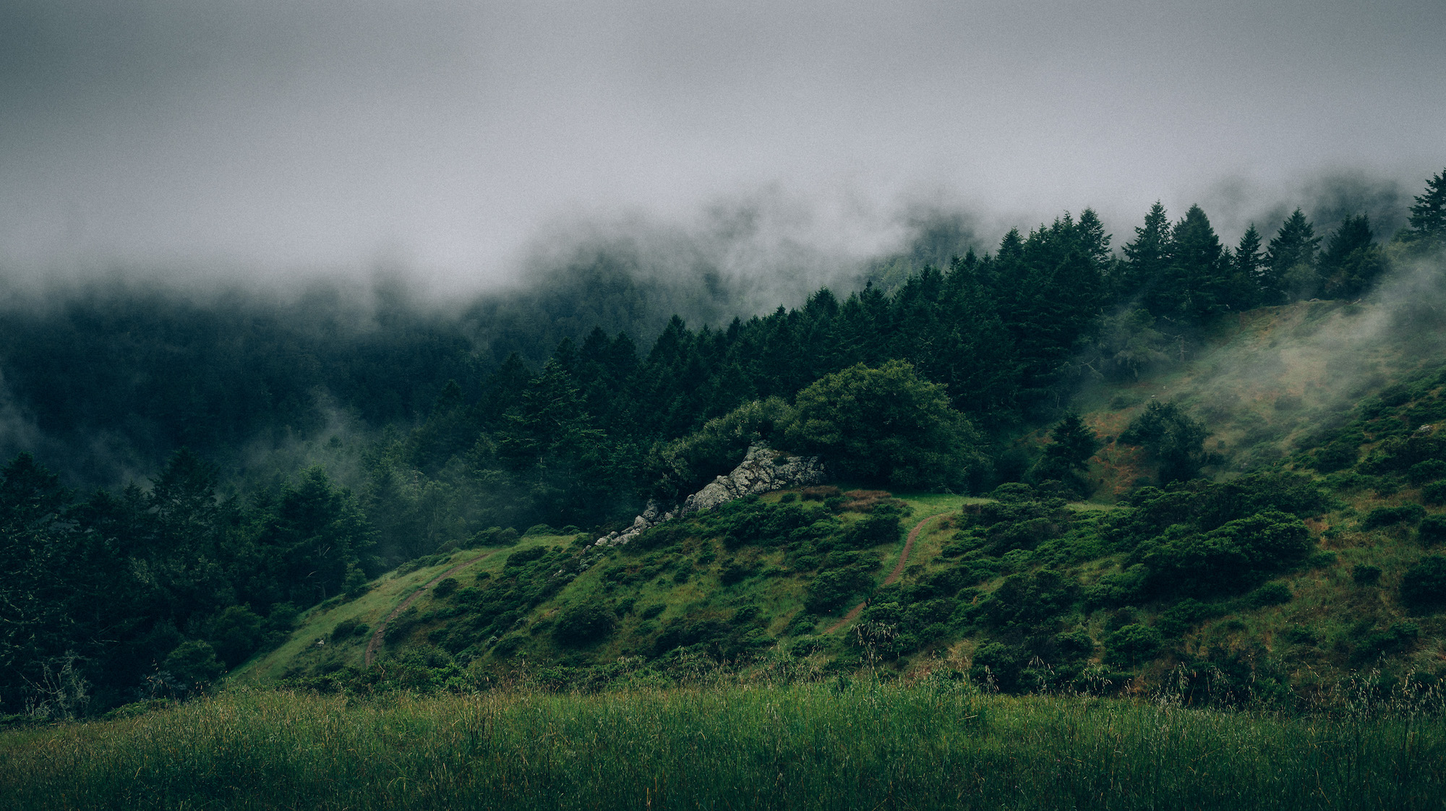
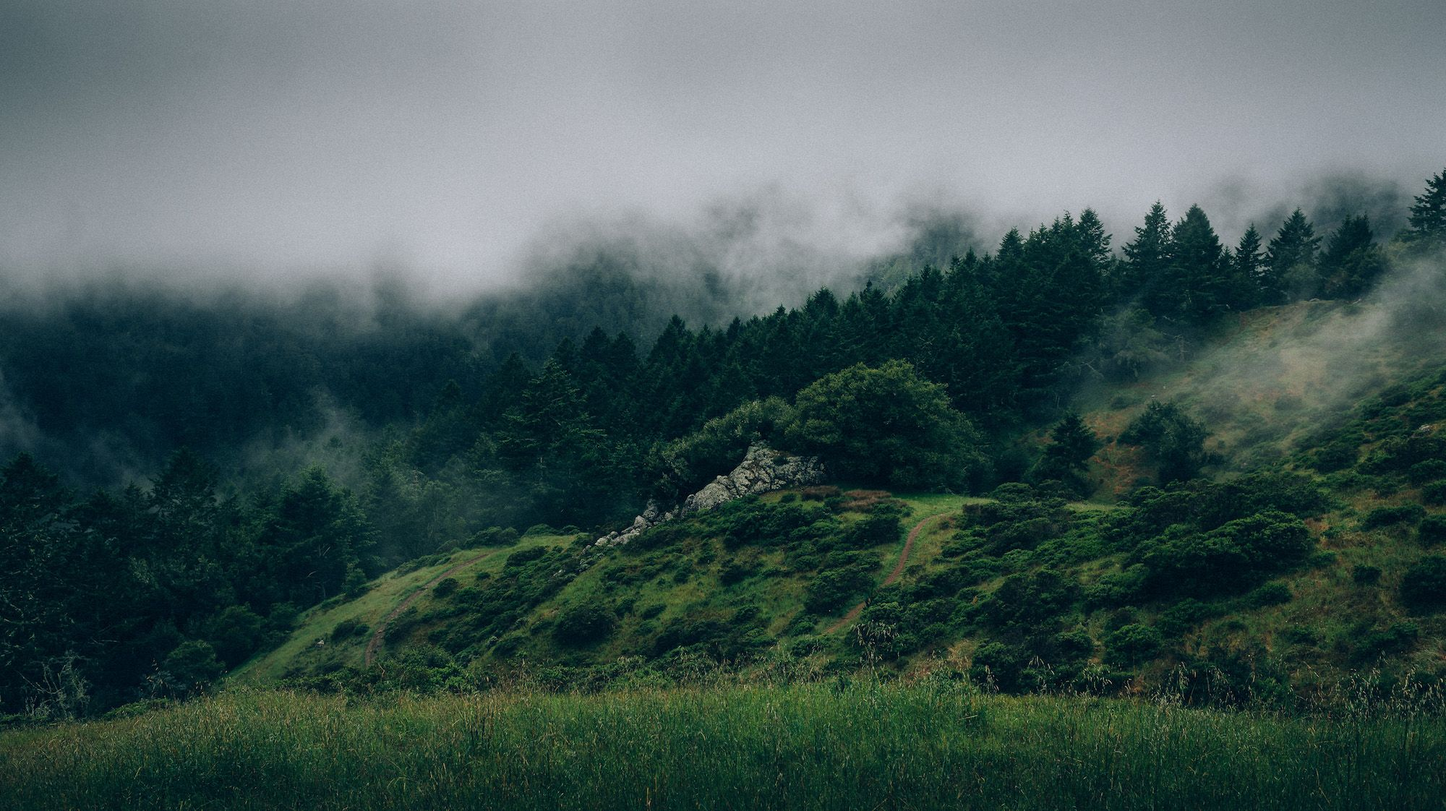
resized hero image, minor adjustments to css

Changed region(s): [[0.651, 0.8422, 0.682, 0.8734], [0.527, 0.8111, 0.558, 0.8422], [0.372, 0.8111, 0.403, 0.8422]]

diff --git a/styles/styles.css b/styles/styles.css
@@ -539,6 +539,7 @@ nav {
 .port-item img {
   width: 100%;
   height: 100%;
+  display: block;
 }
 
 .port-item.item2 {

diff --git a/styles/styles.scss b/styles/styles.scss
@@ -307,6 +307,7 @@ nav {
 	img {
 		width: 100%;
 		height: 100%;
+		display: block;
 	}
 }
 .port-item.item2 {

diff --git a/README.md b/README.md
@@ -9,6 +9,7 @@ Tools used:
 
 - HTML5
 - CSS3
-- JQUERY
 - SASS
 - Responsive Design
+
+April 2016
